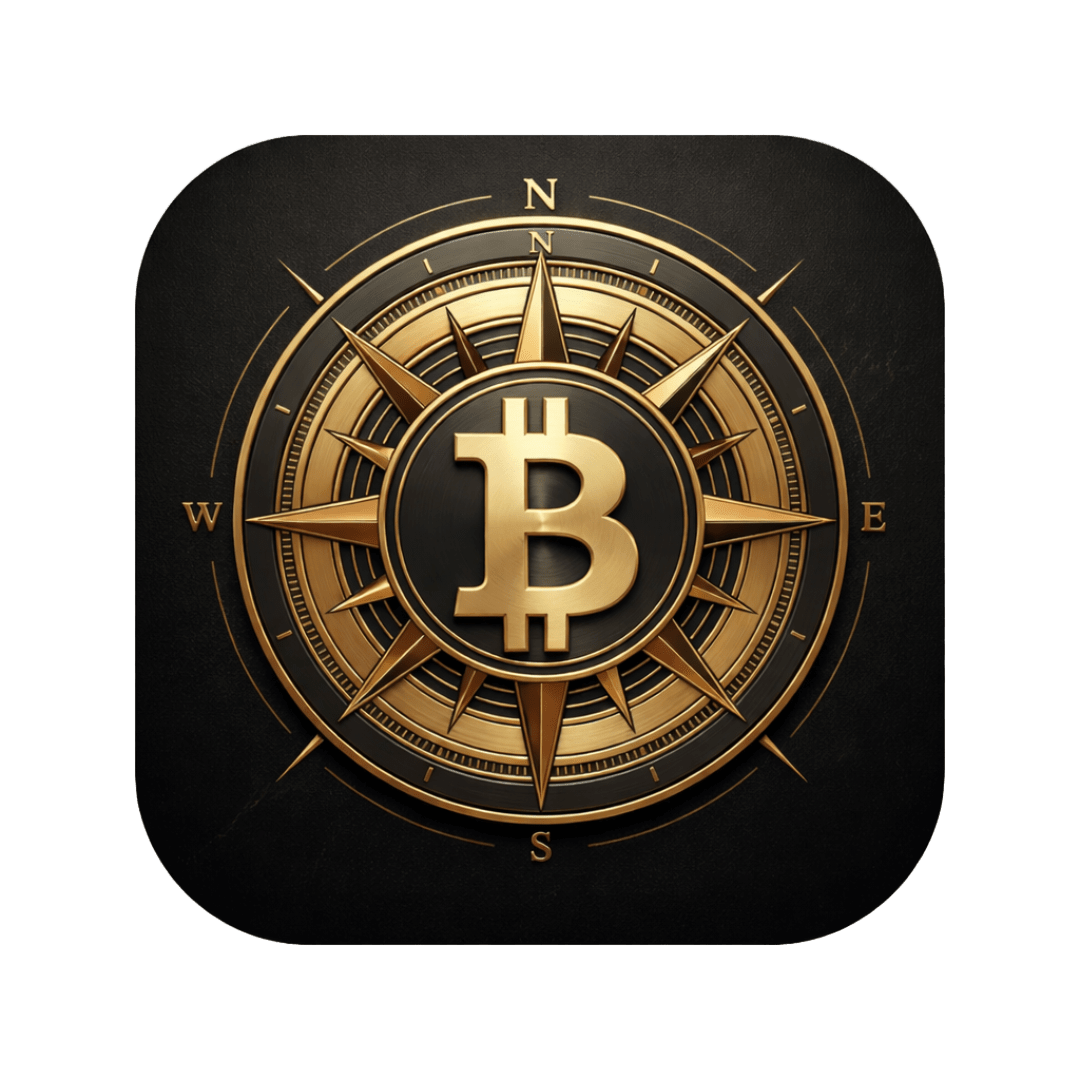
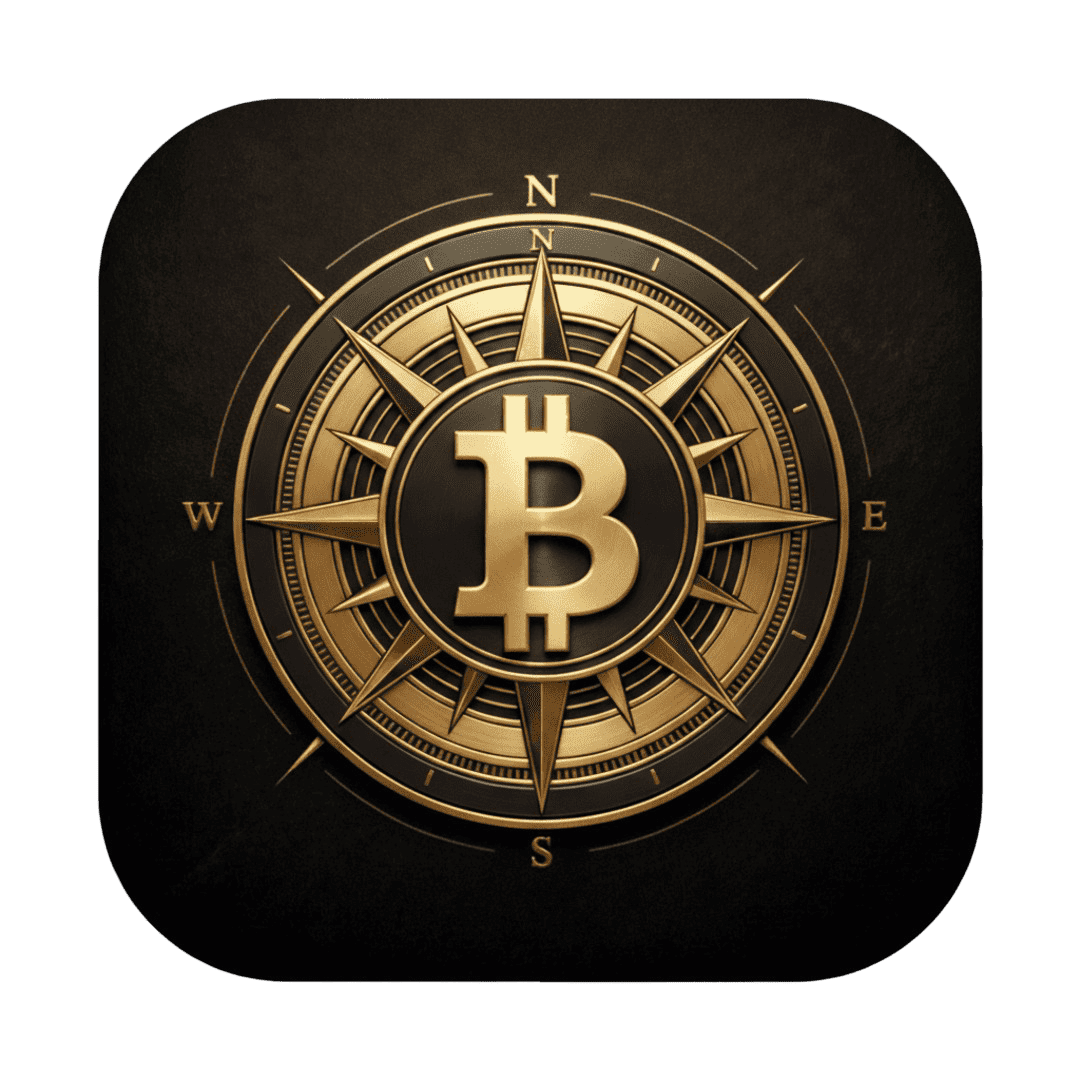
Обновление иконок и адаптив главного меню 1. Добавлены новые иконки приложения 2. Добавлена оптимизация размера иконок в главном меню в зависимости от устройства и адаптивный шрифт

diff --git a/components/AppRoute/AppRoute.js b/components/AppRoute/AppRoute.js
@@ -14,6 +14,7 @@ import {
   SafeAreaView,
   useSafeAreaInsets
 } from "react-native-safe-area-context"
+import { RFValue } from "react-native-responsive-fontsize"
 
 const Tab = createBottomTabNavigator()
 const { width, height } = Dimensions.get("window")
@@ -76,7 +77,7 @@ const TabNavigatorWithSafeArea = () => {
       shadowRadius: 3.84
     },
     tabBarLabelStyle: {
-      fontSize: Platform.OS === "ios" ? 12 : 11,
+      fontSize: Platform.OS === "ios" ? RFValue(10) : RFValue(9),
       marginBottom: paddingBottom > 0 ? 0 : 3,
       fontWeight: "500"
     },
@@ -106,7 +107,10 @@ const TabNavigatorWithSafeArea = () => {
         component={Main}
         options={{
           title: "Watchlists",
-          tabBarIcon: ({ color }) => <Ionicons name='pulse' size={24} color={color} />
+
+          tabBarIcon: ({ color }) => (
+            <Ionicons name='pulse' size={isTablet ? 23 : 22} color={color} />
+          )
         }}
       />
       <Tab.Screen
@@ -115,7 +119,7 @@ const TabNavigatorWithSafeArea = () => {
         options={{
           title: "Favorites",
           tabBarIcon: ({ color }) => (
-            <Ionicons name='logo-bitcoin' size={24} color={color} />
+            <Ionicons name='logo-bitcoin' size={isTablet ? 23 : 22} color={color} />
           )
         }}
       />
@@ -125,7 +129,7 @@ const TabNavigatorWithSafeArea = () => {
         options={{
           title: "Price Alerts",
           tabBarIcon: ({ color }) => (
-            <Ionicons name='notifications' size={24} color={color} />
+            <Ionicons name='notifications' size={isTablet ? 23 : 22} color={color} />
           )
         }}
       />
@@ -134,7 +138,9 @@ const TabNavigatorWithSafeArea = () => {
         component={Analytics}
         options={{
           title: "Analytics",
-          tabBarIcon: ({ color }) => <Ionicons name='bar-chart' size={24} color={color} />
+          tabBarIcon: ({ color }) => (
+            <Ionicons name='bar-chart' size={isTablet ? 23 : 22} color={color} />
+          )
         }}
       />
       <Tab.Screen
@@ -143,7 +149,7 @@ const TabNavigatorWithSafeArea = () => {
         options={{
           title: "Privacy Policy",
           tabBarIcon: ({ color }) => (
-            <Ionicons name='mail-unread' size={24} color={color} />
+            <Ionicons name='mail-unread' size={isTablet ? 23 : 22} color={color} />
           )
         }}
       />
@@ -153,7 +159,11 @@ const TabNavigatorWithSafeArea = () => {
         options={{
           title: "Support Us",
           tabBarIcon: ({ color }) => (
-            <MaterialCommunityIcons name='code-braces' size={24} color={color} />
+            <MaterialCommunityIcons
+              name='code-braces'
+              size={isTablet ? 23 : 22}
+              color={color}
+            />
           )
         }}
       />
